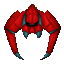
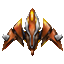
Graphical Improvements part 2

diff --git a/Code/Player.swift b/Code/Player.swift
@@ -18,9 +18,10 @@ class Player: Sprite {
 
 
     init(x: CGFloat, y: CGFloat) {
-        super.init(named: "rocket", x: x, y: y)
-        self.setScale(2.0)
-        fire()
+        super.init(named: "ship", x: x, y: y)
+        self.setScale(1.4)
+        //fire()
+        exhaust()
     }
 
     func fire() {
@@ -28,10 +29,19 @@ class Player: Sprite {
             fireArray.append(SKTexture(imageNamed: "fire\(index)"))
         }
         let fire = SKSpriteNode(texture: fireArray[0]);
-        fire.anchorPoint = CGPoint(x: 0.5, y: 1.3)
+        fire.anchorPoint = CGPoint(x: 0.5, y:1.3)
         self.addChild(fire)
         let animateAction = SKAction.animateWithTextures(self.fireArray, timePerFrame: 0.10);
         fire.runAction(SKAction.repeatActionForever(animateAction))
+    }
+    
+    func exhaust(){
+        let emitterNode = SKEmitterNode(fileNamed: "EngineExhaust.sks")
+        emitterNode?.position = CGPoint(x: 0.5, y: -18.3)
+        emitterNode?.setScale(0.6)
+        self.addChild(emitterNode!)
+        //self.runAction(SKAction.waitForDuration(1), completion: { emitterNode!.removeFromParent()})
+        
     }
     
     
